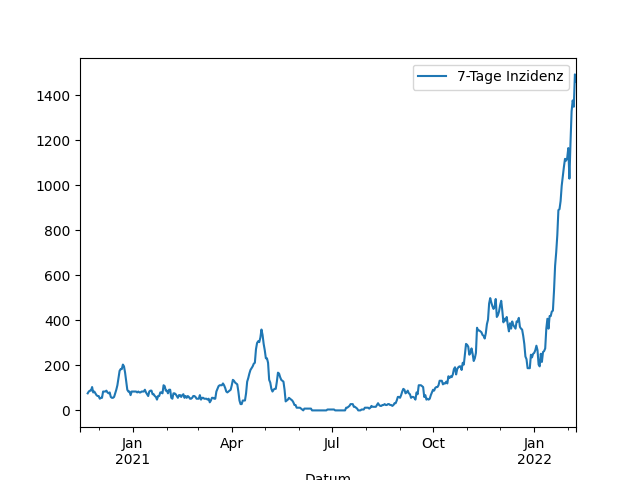
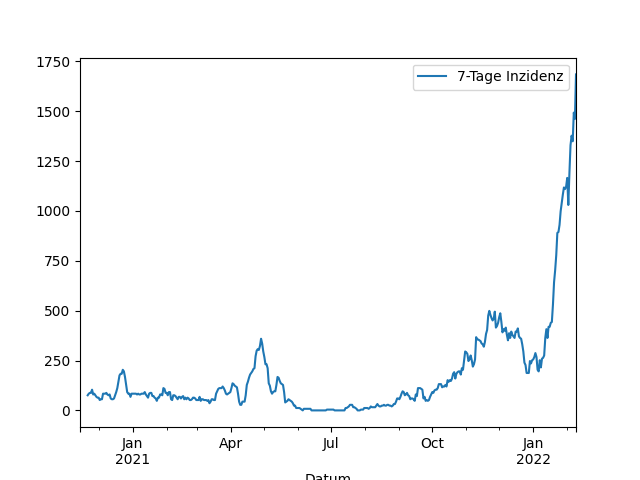
Update images

diff --git a/_includes/aktuelle_inzidenz.md b/_includes/aktuelle_inzidenz.md
@@ -1,1 +1,1 @@
-1461,0
+1684,5
